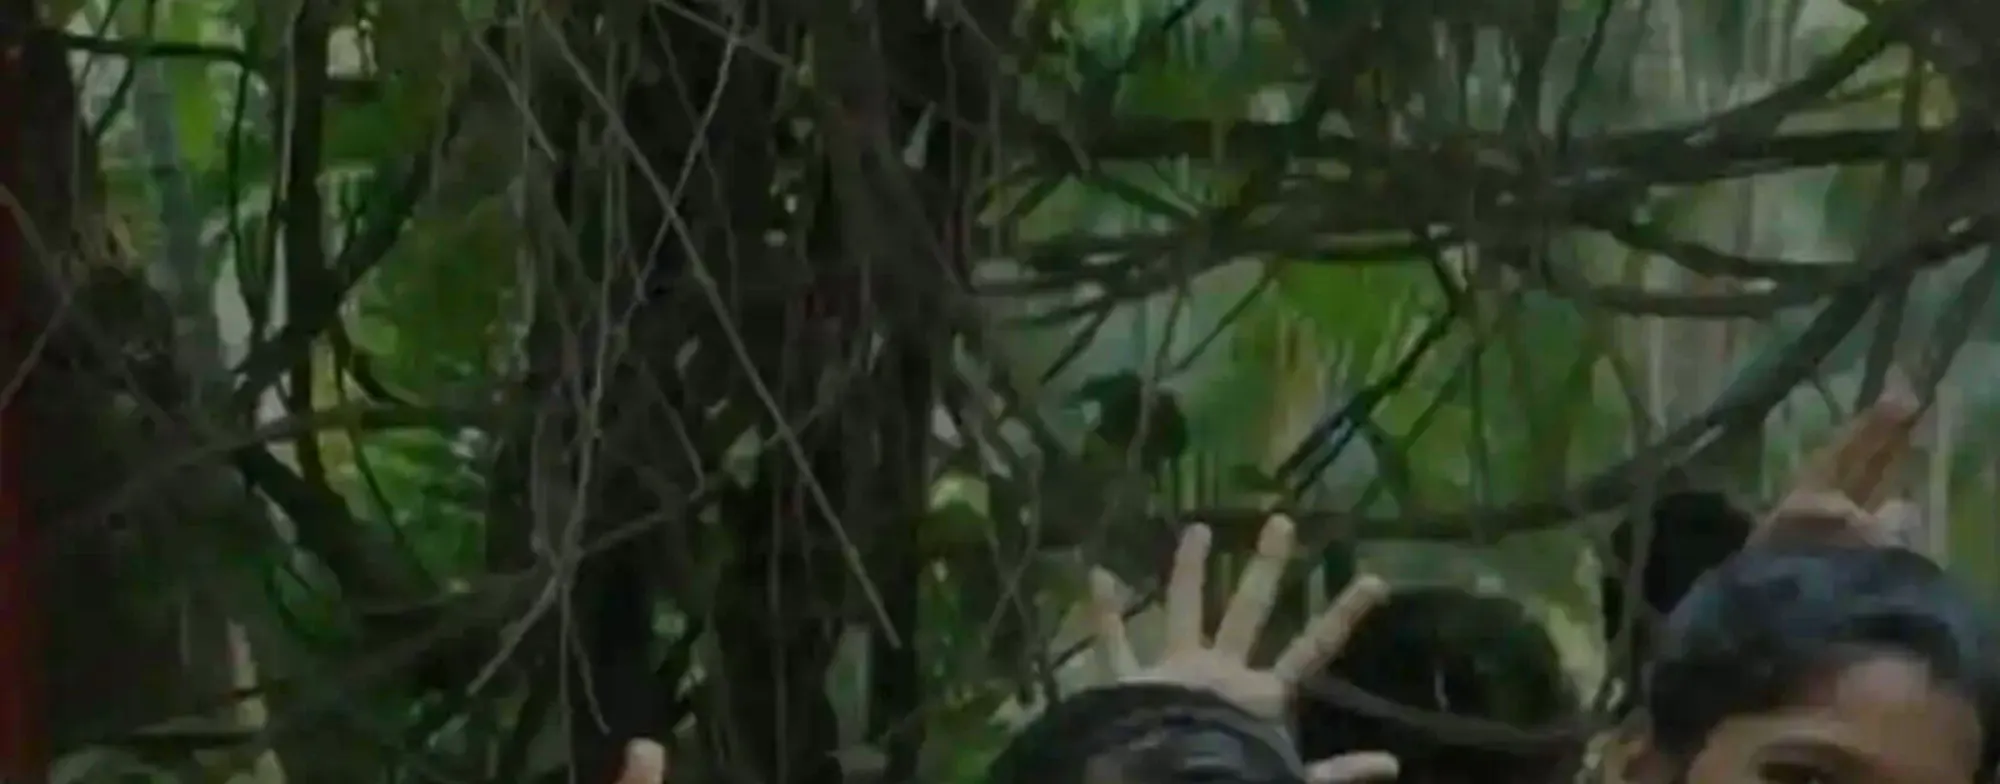
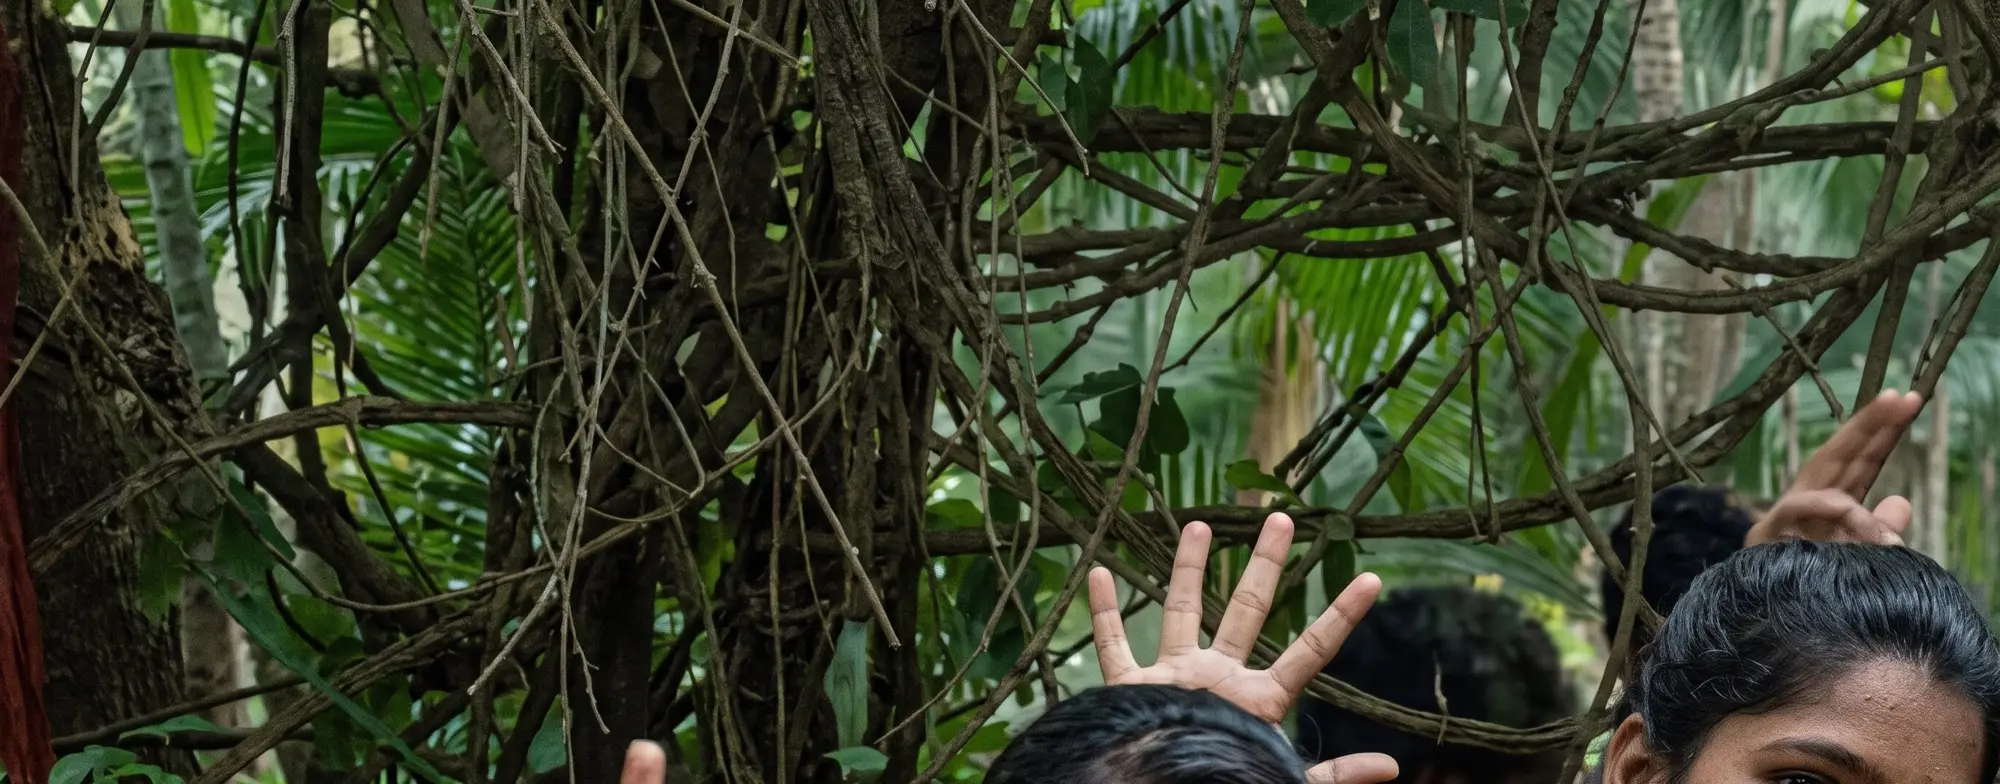
Loader on first load, placeholders for slow pictures, motion starts sooner, sharper Krishnaveni picture

diff --git a/src/app/globals.css b/src/app/globals.css
@@ -56,6 +56,133 @@ html.m main:not([data-ready]) .pre {
   visibility: hidden;
 }
 
+/* The loader: first load only, with motion on. Paper like the home hero, so lifting it is the hero arriving. */
+.loader {
+  display: none;
+}
+
+html.m:not(.m-done) .loader {
+  position: fixed;
+  z-index: 100;
+  inset: 0;
+  display: flex;
+  flex-direction: column;
+  align-items: center;
+  justify-content: center;
+  gap: 22px;
+  background: var(--paper);
+  color: var(--ink);
+  clip-path: inset(0 0 0 0);
+  /* If motion never says it's ready, the page isn't held behind this for ever. */
+  animation: loader-give-up 0.4s ease-out 14s forwards;
+}
+
+.loader-mark {
+  width: auto;
+  height: clamp(44px, 7vw, 84px);
+  overflow: visible;
+
+  & path {
+    animation: loader-rise 0.7s cubic-bezier(0.16, 1, 0.3, 1) both;
+  }
+
+  & path:nth-child(2) { animation-delay: 0.05s; }
+  & path:nth-child(3) { animation-delay: 0.1s; }
+  & path:nth-child(4) { animation-delay: 0.15s; }
+  & path:nth-child(5) { animation-delay: 0.2s; }
+  & path:nth-child(6) { animation-delay: 0.25s; }
+
+  & circle {
+    fill: var(--blue);
+    transform-box: fill-box;
+    transform-origin: center;
+    animation: loader-rise 0.7s cubic-bezier(0.16, 1, 0.3, 1) 0.3s both, loader-beat 1.1s ease-in-out 1s infinite;
+  }
+}
+
+/* Creeps towards full while the page loads; fills the rest when it's ready. */
+.loader-bar {
+  display: block;
+  width: clamp(120px, 18vw, 220px);
+  height: 2px;
+  background: var(--ink);
+  transform-origin: left;
+  animation: loader-fill 9s cubic-bezier(0.08, 0.7, 0.2, 1) 0.2s both;
+}
+
+.loader-line {
+  display: grid;
+  font-size: 14px;
+  color: var(--dim);
+
+  & span {
+    grid-area: 1 / 1;
+    text-align: center;
+  }
+
+  /* Only someone still waiting after a few seconds sees the second line. */
+  & span:first-child {
+    animation: loader-swap 0.4s ease-out 3.5s both reverse;
+  }
+
+  & span:last-child {
+    animation: loader-swap 0.4s ease-out 3.5s both;
+  }
+}
+
+html.m-in .loader {
+  clip-path: inset(0 0 100% 0);
+  transition: clip-path 0.75s cubic-bezier(0.76, 0, 0.24, 1) 0.18s;
+
+  & .loader-bar {
+    animation: none;
+    transform: scaleX(1);
+    transition: transform 0.2s ease-out;
+  }
+}
+
+@keyframes loader-rise {
+  from { opacity: 0; transform: translateY(40%); }
+}
+
+@keyframes loader-beat {
+  50% { transform: scale(0.7); }
+}
+
+@keyframes loader-fill {
+  from { transform: scaleX(0); }
+  to { transform: scaleX(0.92); }
+}
+
+@keyframes loader-swap {
+  from { opacity: 0; transform: translateY(6px); }
+  to { opacity: 1; transform: none; }
+}
+
+@keyframes loader-give-up {
+  to { opacity: 0; visibility: hidden; }
+}
+
+/* A picture still on its way shows a soft moving band, so a slow connection looks like loading, not a gap.
+   A mid grey, so it reads on paper and on ink (next/image makes the img's own colour transparent). */
+main img:not([data-loaded]) {
+  background-color: rgb(139 139 134 / 0.16);
+  background-image: linear-gradient(100deg, transparent 30%, rgb(139 139 134 / 0.28) 50%, transparent 70%);
+  background-size: 220% 100%;
+  animation: img-wait 1.4s linear infinite;
+}
+
+@keyframes img-wait {
+  from { background-position: 100% 0; }
+  to { background-position: -120% 0; }
+}
+
+@media (prefers-reduced-motion: reduce) {
+  main img:not([data-loaded]) {
+    animation: none;
+  }
+}
+
 .is-grabbing,
 .is-grabbing * {
   cursor: grabbing !important;

diff --git a/src/app/layout.tsx b/src/app/layout.tsx
@@ -7,6 +7,7 @@ import { SpeedInsights } from "@vercel/speed-insights/next";
 import SiteHeader from "@/components/site-header";
 import SiteFooter from "@/components/site-footer";
 import SiteMotion from "@/components/site-motion";
+import { Mark } from "@/components/wordmark";
 
 const inter = Inter_Tight({
   subsets: ["latin"],
@@ -70,6 +71,11 @@ const STRIP_PREFILL = `(function(){var h=location.hash;if(location.pathname==="/
 // If motion hasn't booted 6 seconds after load, the class comes off and the plain page shows.
 const MOTION_ON = `(function(){try{var d=document.documentElement;if(matchMedia("(prefers-reduced-motion: reduce)").matches)return;d.classList.add("m");window.addEventListener("load",function(){setTimeout(function(){if(!window.__mOk)d.classList.remove("m")},6000)})}catch(e){}})()`;
 
+// Marks each picture once it has arrived, so globals.css can show a placeholder until then on a slow connection.
+// Until React has hydrated, they wait in a queue: an attribute React didn't render would be a hydration mismatch.
+// site-motion.tsx empties the queue once hydrated.
+const IMG_WAIT = `(function(){var q=[];window.__imgQ=q;function m(e){var t=e.target;if(!t||t.tagName!=="IMG")return;if(window.__imgQ)window.__imgQ.push(t);else t.setAttribute("data-loaded","")}document.addEventListener("load",m,true);document.addEventListener("error",m,true)})()`;
+
 export default function RootLayout({
   children,
 }: Readonly<{
@@ -81,6 +87,7 @@ export default function RootLayout({
       <head>
         <script dangerouslySetInnerHTML={{ __html: STRIP_PREFILL }} />
         <script dangerouslySetInnerHTML={{ __html: MOTION_ON }} />
+        <script dangerouslySetInnerHTML={{ __html: IMG_WAIT }} />
       </head>
       <body>
         <script type="application/ld+json" dangerouslySetInnerHTML={{ __html: JSON.stringify(jsonLd) }} />
@@ -105,6 +112,15 @@ fbq('init','${META_PIXEL_ID}');
 fbq('track','PageView');`}
           </Script>
         )}
+        {/* First load only, and only with motion on: covers the page until boot.js has staged it. */}
+        <div className="loader" aria-hidden="true">
+          <Mark height={64} className="loader-mark" />
+          <i className="loader-bar" />
+          <p className="loader-line">
+            <span>Built by a date we both sign.</span>
+            <span>Still loading the work.</span>
+          </p>
+        </div>
         <a className="skip" href="#main">
           Skip to content
         </a>

diff --git a/src/components/site-motion.tsx b/src/components/site-motion.tsx
@@ -2,10 +2,9 @@
 
 import { usePathname } from "next/navigation";
 import { useEffect, useLayoutEffect, useRef } from "react";
+import { loadRoute } from "@/motion/routes";
 
-let loaded = false;
-
-// Starts the site's motion once the browser has a moment. Only this import reaches
+// Starts the site's motion as soon as the page has hydrated. Only these imports reach
 // gsap, lenis and matter-js, so without html.m none of them is ever downloaded.
 export default function SiteMotion()
 {
@@ -21,15 +20,24 @@ export default function SiteMotion()
     };
   }, [pathname]);
 
+  // Hydrated: the pictures that arrived before now can be marked (see IMG_WAIT in layout.tsx).
+  useEffect(() => {
+    const w = window as unknown as { __imgQ?: HTMLImageElement[] | null };
+    const q = w.__imgQ;
+    w.__imgQ = null;
+    q?.forEach((img) => img.setAttribute("data-loaded", ""));
+  }, []);
+
   useEffect(() => {
     if (!document.documentElement.classList.contains("m")) {
       return;
     }
     let cancelled = false;
     const start = () => {
+      // This page's own motion code downloads alongside boot, not after it. boot asks for the same chunk.
+      loadRoute(pathname).catch(() => {});
       import("@/motion/boot")
         .then(({ boot }) => {
-          loaded = true;
           if (!cancelled) {
             destroy.current = boot(pathname);
           }
@@ -39,23 +47,10 @@ export default function SiteMotion()
         });
     };
 
-    if (loaded) {
-      start();
-      return () => {
-        cancelled = true;
-      };
-    }
-    if ("requestIdleCallback" in window) {
-      const idle = window.requestIdleCallback(start, { timeout: 1500 });
-      return () => {
-        cancelled = true;
-        window.cancelIdleCallback(idle);
-      };
-    }
-    const timer = setTimeout(start, 200);
+    // No waiting for an idle moment: on a first load the loader is up until this has run.
+    start();
     return () => {
       cancelled = true;
-      clearTimeout(timer);
     };
   }, [pathname]);
 

diff --git a/src/motion/boot.js b/src/motion/boot.js
@@ -5,6 +5,7 @@ import { ScrollTrigger } from "gsap/ScrollTrigger";
 import Lenis from "lenis";
 import { SHIFTER } from "./glyphs";
 import { makeDot } from "./kit";
+import { loadRoute } from "./routes";
 
 let core = null;
 
@@ -241,21 +242,15 @@ function hashTarget(hash)
   }
 }
 
-function loadRoute(pathname)
+// The first page load opens behind the loader (layout.tsx). It wipes up once, then stays gone.
+function liftLoader()
 {
-  if (pathname === "/") {
-    return import("./home");
+  const d = document.documentElement;
+  if (d.classList.contains("m-in")) {
+    return;
   }
-  if (pathname.startsWith("/start")) {
-    return import("./funnel");
-  }
-  if (pathname === "/products") {
-    return import("./shelf");
-  }
-  if (pathname === "/how-it-works") {
-    return import("./how");
-  }
-  return import("./inner");
+  d.classList.add("m-in");
+  setTimeout(() => d.classList.add("m-done"), 1000);
 }
 
 function fontsReady()
@@ -308,6 +303,7 @@ export function boot(pathname)
       main.dataset.ready = "1";
     }
     window.__mOk = true;
+    liftLoader();
     core.curtain.out();
     if (location.hash) {
       const target = hashTarget(location.hash);

diff --git a/src/motion/routes.js b/src/motion/routes.js
@@ -1,0 +1,18 @@
+// Which motion code each route runs. Kept apart from boot.js so site-motion can start this download
+// at the same time as boot's, instead of one after the other.
+export function loadRoute(pathname)
+{
+  if (pathname === "/") {
+    return import("./home");
+  }
+  if (pathname.startsWith("/start")) {
+    return import("./funnel");
+  }
+  if (pathname === "/products") {
+    return import("./shelf");
+  }
+  if (pathname === "/how-it-works") {
+    return import("./how");
+  }
+  return import("./inner");
+}
